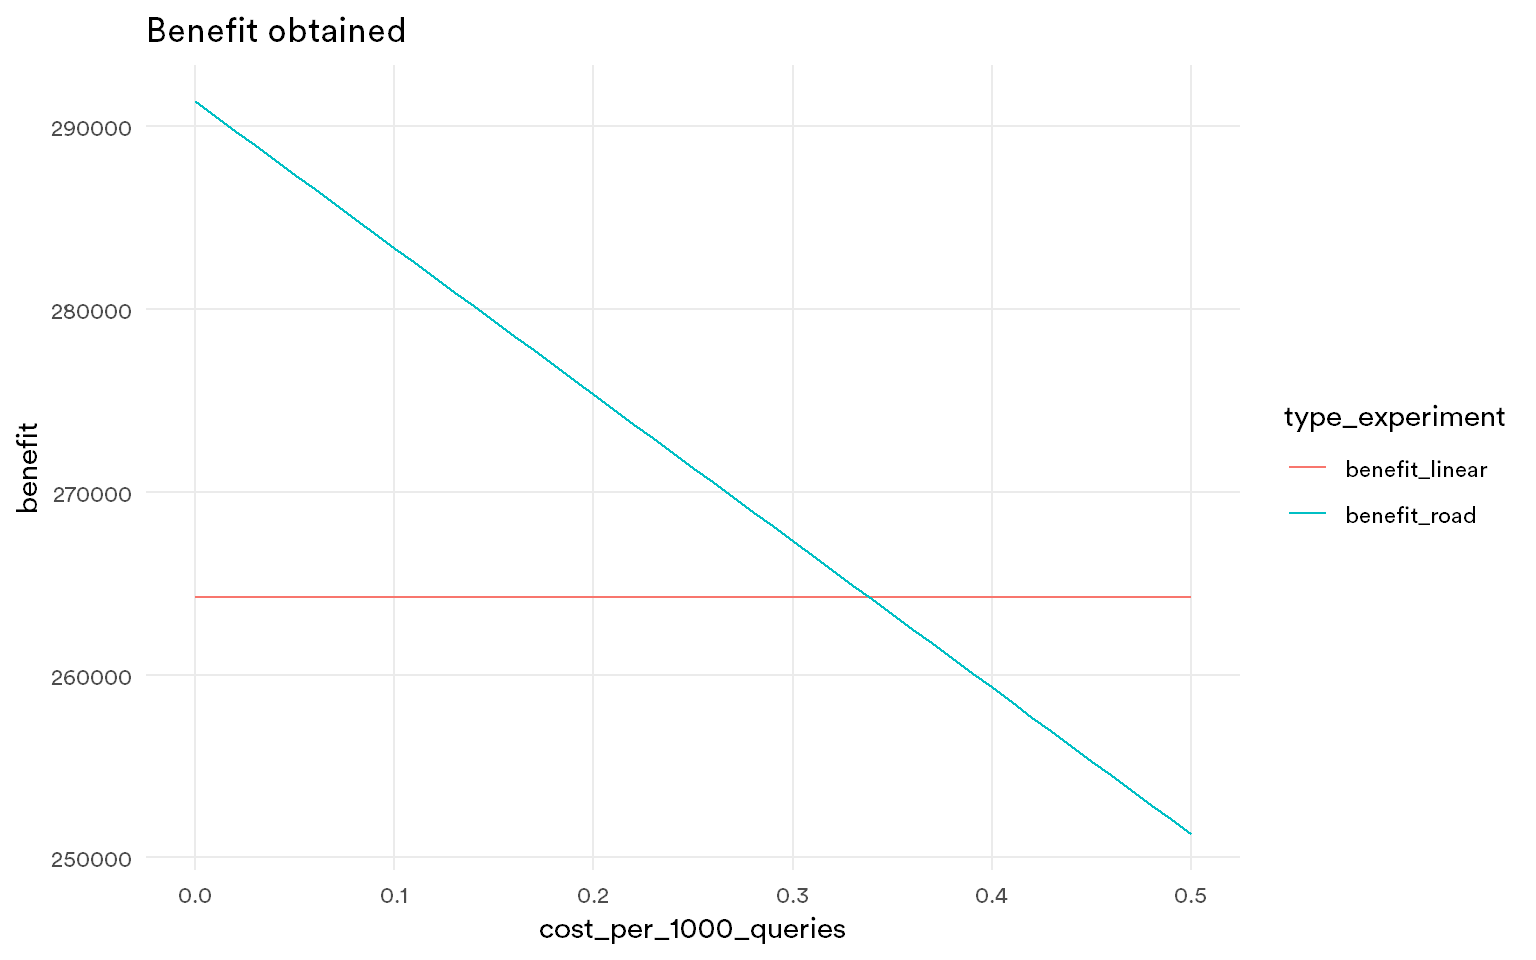
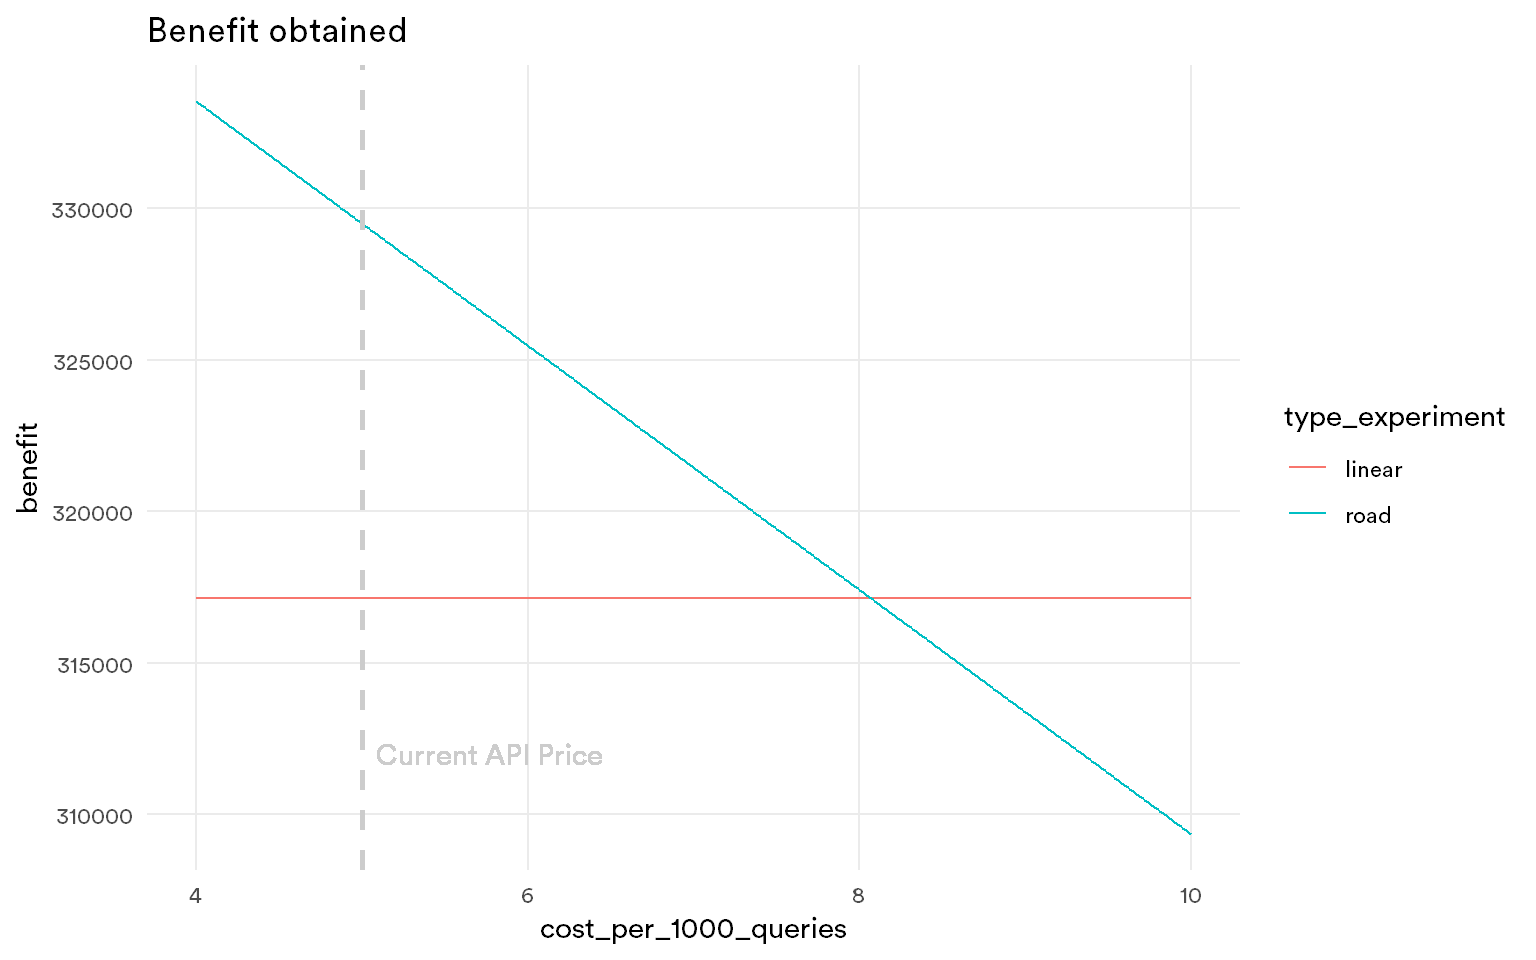
With price maximum

diff --git a/cabify/solution.html b/cabify/solution.html
@@ -502,7 +502,7 @@ volantis
 <ul>
 <li><p>We base this analysis on means of data provided, but there is only a day and a half of data. More robust conclusions could be extracted with a wider history.</p></li>
 <li><p>As a provider of <em>road</em> distance, we could use <a href="https://developers.google.com/maps/documentation/directions/usage-limits">google maps</a>. In this case, its cost is $5 / 1000 requests ($4 if usage is heavy).</p></li>
-<li><p>We assume a trip only costs $15 regardless of distance, for simplicity.</p></li>
+<li><p>We assume a trip only costs $12 regardless of distance, for simplicity.</p></li>
 </ul>
 <p>With this numbers, we can yield that using google API for a high amount of vehicles is very expensive. For example, in Pentos, with more than 3000 vehicles, quering the API for all of them costs as much as the trip itself, so it is not worth it.</p>
 <p>However, we can mix both criteria in order to improve the way we measure distance. As it does not make sense to API query for the distance of furthest vehicles, because it is very likely that its <em>road</em> distance would be larger than others, we can compute a <em>composed</em> distance, based on two steps:</p>
@@ -515,7 +515,7 @@ volantis
 <li><p>Computed number of vehicles per day, total number of trips per day and average number of trips per vehicle per day. These calculations have been made only using first complete 24 hours of data</p></li>
 <li><p>Calculated mean distance and mean duration of trips (of event <code>going_to_pickup</code>)</p></li>
 <li><p>Estimated number of seconds of driving to pick up the rider gained with <em>road</em> distance per trip, per vehicle a day, and per day of whole city. We make the assumption that this time is used to new trips, so we can compute how many new trips could be made by vehicle with this time.</p></li>
-<li><p>Computed how much would it cost a query with <em>road</em> API for <strong>the 100 closest vehicles</strong> in terms of linear distance.</p></li>
+<li><p>Computed how much would it cost a query with <em>road</em> API for <strong>the 5% closest vehicles</strong> in terms of linear distance.</p></li>
 <li><p>Calculated benefit obtained with <em>linear</em> distance (no API required, but less trips) and with <em>road</em> distance.</p></li>
 </ul>
 <div style="border: 1px solid #ddd; padding: 5px; overflow-x: scroll; width:100%; ">
@@ -614,13 +614,13 @@ bravos
 826.52
 </td>
 <td style="text-align:right;">
-$0.50
+$0.05
 </td>
 <td style="text-align:right;">
-$63,474.00
+$52,311.33
 </td>
 <td style="text-align:right;">
-$53,265.00
+$42,612.00
 </td>
 </tr>
 <tr>
@@ -664,13 +664,13 @@ pentos
 1883.86
 </td>
 <td style="text-align:right;">
-$0.50
+$0.80
 </td>
 <td style="text-align:right;">
-$359,017.97
+$277,186.64
 </td>
 <td style="text-align:right;">
-$343,140.00
+$274,512.00
 </td>
 </tr>
 <tr>
@@ -709,23 +709,26 @@ volantis
 <td style="text-align:right;">
 </td>
 <td style="text-align:right;">
-$0.50
+$0.21
 </td>
 <td style="text-align:right;">
 </td>
 <td style="text-align:right;">
-$120,720.00
+$96,576.00
 </td>
 </tr>
 </tbody>
 </table>
 </div>
-<p>For example, for Bravos, with a small number of vehicles, benefit of changing to <em>road</em> distance would be $10,209 more than <em>linear</em>, and $15,878 for Pentos.</p>
+<p>For example, for Bravos, with a small number of vehicles, benefit of changing to <em>road</em> distance would be $9,699 more than <em>linear</em>, and $2,675 for Pentos.</p>
+<p>To see which is maximum cost per query that we could afford in order to get more benefits, we can simulate different scenarios:</p>
[1 lines of base64/hex data omitted]
+<p>And we can see that we can afford until $8.07 per 1000 queries with this assumptions.</p>
 </div>
 <div id="next-steps-1" class="section level4">
 <h4>Next steps</h4>
 <p>To improve the experimental design, I would collect data for a longer period (a week would be better, in order to measure if <em>road</em> distance performs better even on weekends), and I would add more information to the analysis. For example, district zone where trip was requested. With this information, we could narrow our analysis and check if <em>road</em> distance is better in the center of the city rather than in the suburbs.</p>
-<p>Besides, other analyses could be made in order to determine how many closest vehicles do we need to query with <em>road</em> distance, as maybe 100 vehicles for smaller cities like Bravos is too much, and we can get similar results with less vehicles.</p>
+<p>Besides, other analyses could be made in order to determine how many closest vehicles do we need to query with <em>road</em> distance, as maybe 5% vehicles for big cities like Pentos is too much, and we can get similar results with less vehicles.</p>
 </div>
 </div>
 </div>
